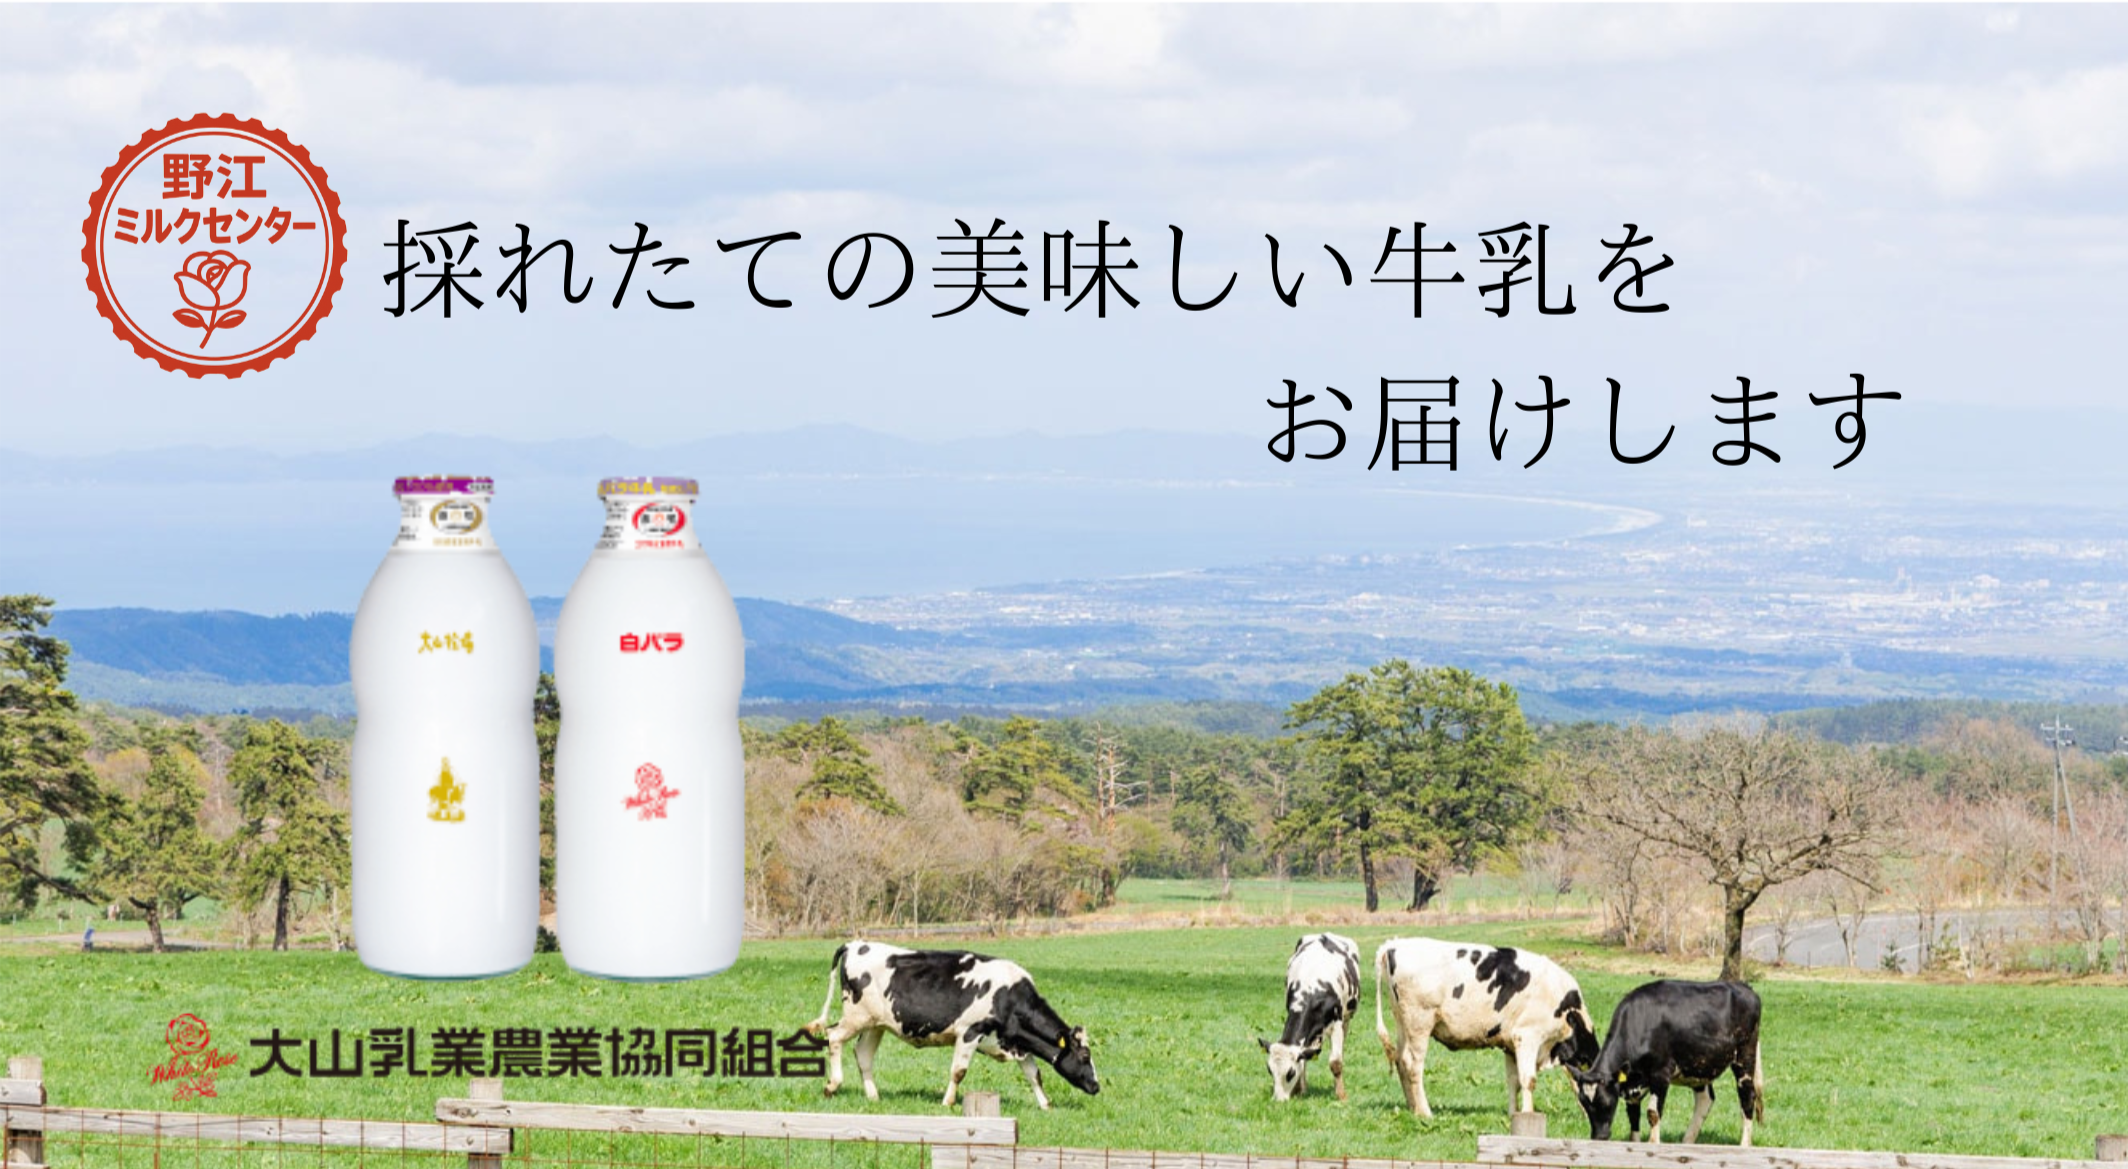
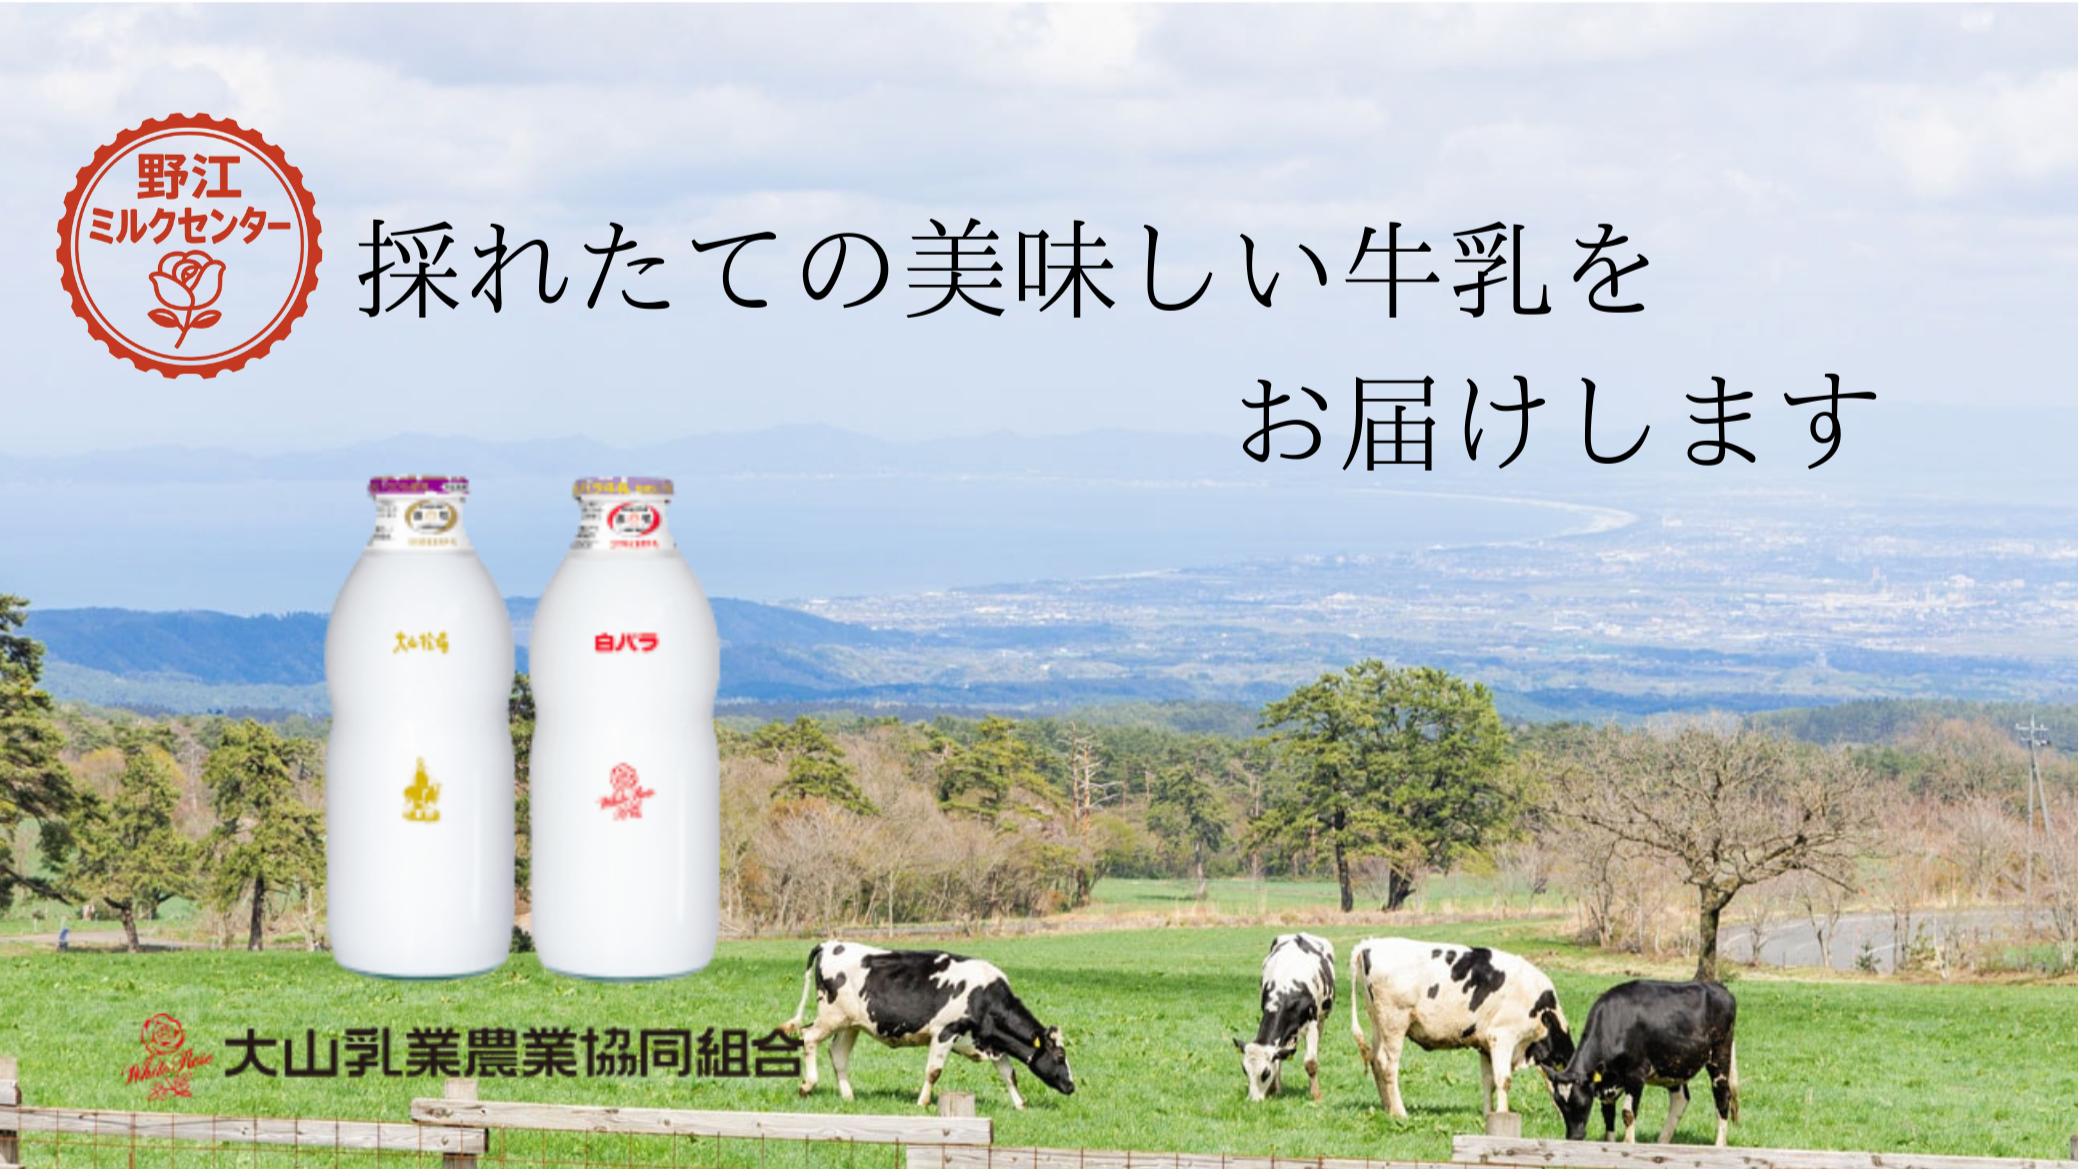
Add files via upload

diff --git a/index.html b/index.html
@@ -35,16 +35,16 @@
                 <img src="images/top-banner.png" alt="採れたての美味しい牛乳をお届けします">
             </div>
             <div class="swiper-slide">
-                <img src="https://dainyu.or.jp/wp-content/themes/dainyu-theme/image/top/image1@2x.webp" alt="画像1">
+                <img src="images/top-banner4.jpg" alt="画像1">
             </div>
             <div class="swiper-slide">
-                <img src="https://dainyu.or.jp/wp-content/themes/dainyu-theme/image/story/image2@2x.webp" alt="画像2">
+                <img src="images/top-banner2.jpg" alt="画像2">
             </div>
             <div class="swiper-slide">
-                <img src="https://dainyu.or.jp/wp-content/themes/dainyu-theme/image/delivery-milk/main-image@2x.webp" alt="画像3">
+                <img src="images/top-banner3.jpg" alt="画像3">
             </div>
             <div class="swiper-slide">
-                <img src="https://dainyu.or.jp/wp-content/themes/dainyu-theme/image/delivery-milk/202306/design-main@2x.webp" alt="画像4">
+                <img src="images/top-banner5.jpg" alt="画像4">
             </div>
         </div>
         <!-- ページネーション（ドット） -->

diff --git a/style.css b/style.css
@@ -703,30 +703,3 @@ body {
     display: inline-block !important;
     box-sizing: border-box !important;
   }
-}
-.hero,
-.swiper-container {
-    width: 100%;
-    height: auto !important;  /* ← 高さ固定をなくす */
-    overflow: hidden;
-}
-
-.swiper-slide img {
-    width: 100% !important;
-    height: auto !important;
-    object-fit: contain !important;  /* 比率維持優先 */
-    display: block;
-}
-}
-.swiper-container {
-    width: 100%;
-    aspect-ratio: 3/2; /* 一枚目の比率に合わせる */
-    overflow: hidden;
-}
-
-.swiper-slide img {
-    width: 100%;
-    height: 100%;
-    object-fit: cover;
-    display: block;
-}
